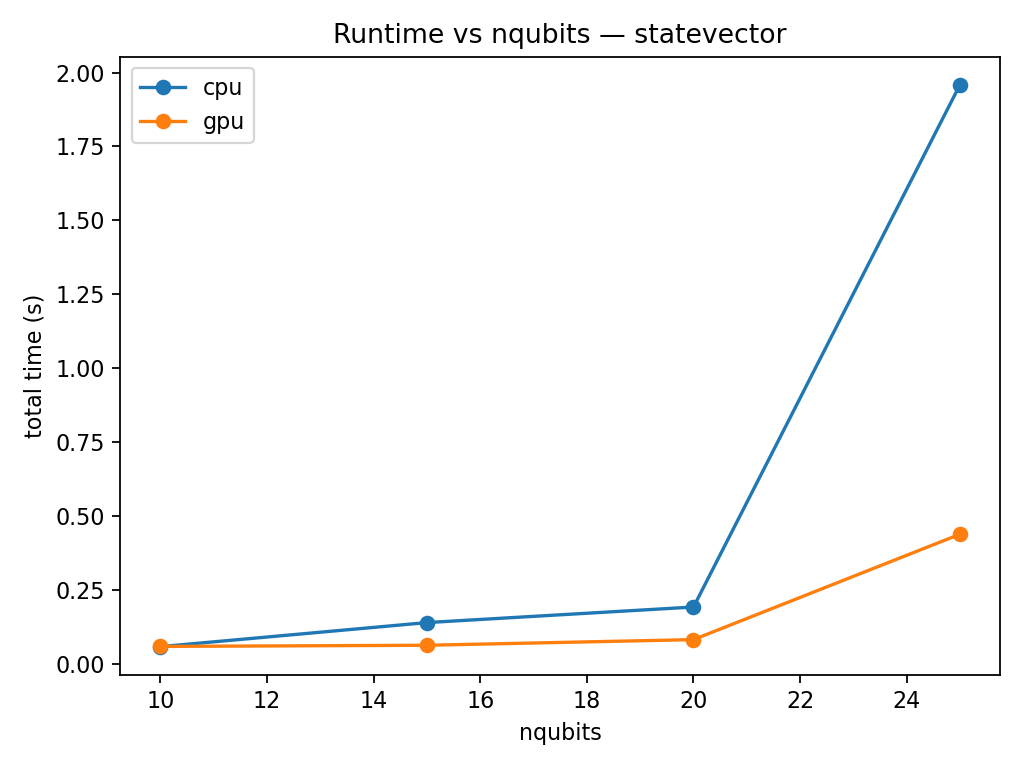
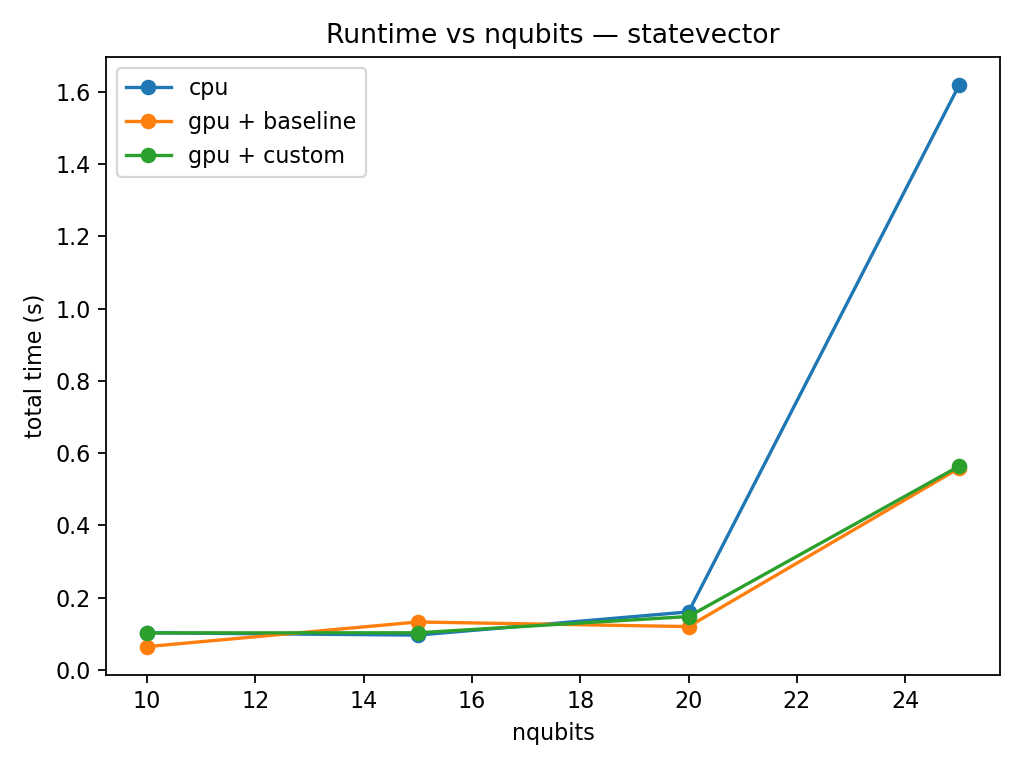
added to plotting code more

diff --git a/benches/plotting.py b/benches/plotting.py
@@ -123,6 +123,187 @@ def plot_correctness(df, outdir):
         plt.title('Sampling TVD vs nqubits (GPU vs CPU)')
         plt.tight_layout(); plt.savefig(outdir/'tvd.png', dpi=160); plt.close()
 
+
+def plot_memory_vs_n(df, outdir):
+    """
+    Plot memory usage vs nqubits for each task, with separate curves for:
+      - cpu          -> rss_mb
+      - gpu + X      -> gpu_mem_mb (split by transpiler: baseline/custom/etc.)
+    """
+    has_transpiler = 'transpiler' in df.columns
+    has_rss = 'rss_mb' in df.columns
+    has_gpu_mem = 'gpu_mem_mb' in df.columns
+
+    if not has_rss and not has_gpu_mem:
+        return  # nothing to plot
+
+    for task in sorted(df['task'].dropna().unique()):
+        sub = df[df['task'] == task]
+        if sub.empty:
+            continue
+
+        plt.figure()
+        plotted_any = False
+
+        # 1) CPU: use rss_mb
+        if has_rss:
+            cpu_sub = sub[(sub['backend'] == 'cpu') & sub['rss_mb'].notna()]
+            if not cpu_sub.empty:
+                cpu_med = (
+                    cpu_sub
+                    .groupby('nqubits', as_index=False)['rss_mb']
+                    .median()
+                    .sort_values('nqubits')
+                )
+                plt.plot(cpu_med['nqubits'], cpu_med['rss_mb'],
+                         marker='o', label='cpu (RSS)')
+                plotted_any = True
+
+        # 2) GPU: use gpu_mem_mb, split by transpiler => gpu + baseline/custom
+        if has_gpu_mem:
+            gpu_sub = sub[(sub['backend'] == 'gpu') & sub['gpu_mem_mb'].notna()]
+            if not gpu_sub.empty:
+                if has_transpiler:
+                    for transp in sorted(gpu_sub['transpiler'].dropna().unique()):
+                        grp = gpu_sub[gpu_sub['transpiler'] == transp]
+                        if grp.empty:
+                            continue
+                        gpu_med = (
+                            grp
+                            .groupby('nqubits', as_index=False)['gpu_mem_mb']
+                            .median()
+                            .sort_values('nqubits')
+                        )
+                        if gpu_med.empty:
+                            continue
+                        label = f"gpu + {transp} (VRAM)"
+                        plt.plot(gpu_med['nqubits'], gpu_med['gpu_mem_mb'],
+                                 marker='o', label=label)
+                        plotted_any = True
+                else:
+                    # fallback: single gpu line
+                    gpu_med = (
+                        gpu_sub
+                        .groupby('nqubits', as_index=False)['gpu_mem_mb']
+                        .median()
+                        .sort_values('nqubits')
+                    )
+                    if not gpu_med.empty:
+                        plt.plot(gpu_med['nqubits'], gpu_med['gpu_mem_mb'],
+                                 marker='o', label='gpu (VRAM)')
+                        plotted_any = True
+
+        if not plotted_any:
+            plt.close()
+            continue
+
+        plt.xlabel('nqubits')
+        plt.ylabel('Memory usage (MB)')
+        plt.title(f'Memory vs nqubits — {task}')
+        plt.legend()
+        plt.tight_layout()
+        plt.savefig(outdir / f'mem_vs_n_{task}.png', dpi=160)
+        plt.close()
+
+
+def plot_total_memory_vs_n(df, outdir):
+    """
+    Plot total memory usage (CPU + GPU) vs nqubits for each task.
+
+    total_mem_mb = rss_mb + gpu_mem_mb (treating missing values as 0)
+
+    Curves:
+      - cpu (total mem)
+      - gpu + baseline (total mem)
+      - gpu + custom (total mem)
+    """
+    has_rss = 'rss_mb' in df.columns
+    has_gpu_mem = 'gpu_mem_mb' in df.columns
+    has_transpiler = 'transpiler' in df.columns
+
+    if not (has_rss or has_gpu_mem):
+        return  # nothing to compute
+
+    for task in sorted(df['task'].dropna().unique()):
+        sub = df[df['task'] == task]
+        if sub.empty:
+            continue
+
+        sub = sub.copy()
+
+        # compute total_mem_mb safely
+        if has_rss and has_gpu_mem:
+            sub['total_mem_mb'] = sub['rss_mb'].fillna(0) + sub['gpu_mem_mb'].fillna(0)
+        elif has_rss:
+            sub['total_mem_mb'] = sub['rss_mb']
+        else:
+            sub['total_mem_mb'] = sub['gpu_mem_mb']
+
+        plt.figure()
+        plotted_any = False
+
+        # 1) CPU: aggregate all cpu rows (transpiler ignored)
+        cpu_sub = sub[(sub['backend'] == 'cpu') & sub['total_mem_mb'].notna()]
+        if not cpu_sub.empty:
+            cpu_med = (
+                cpu_sub
+                .groupby('nqubits', as_index=False)['total_mem_mb']
+                .median()
+                .sort_values('nqubits')
+            )
+            if not cpu_med.empty:
+                plt.plot(cpu_med['nqubits'], cpu_med['total_mem_mb'],
+                         marker='o', label='cpu (total mem)')
+                plotted_any = True
+
+        # 2) GPU: split by transpiler so you get gpu+baseline / gpu+custom
+        gpu_sub = sub[(sub['backend'] == 'gpu') & sub['total_mem_mb'].notna()]
+        if not gpu_sub.empty:
+            if has_transpiler:
+                for transp in sorted(gpu_sub['transpiler'].dropna().unique()):
+                    grp = gpu_sub[gpu_sub['transpiler'] == transp]
+                    if grp.empty:
+                        continue
+                    gpu_med = (
+                        grp
+                        .groupby('nqubits', as_index=False)['total_mem_mb']
+                        .median()
+                        .sort_values('nqubits')
+                    )
+                    if gpu_med.empty:
+                        continue
+                    label = f"gpu + {transp} (total mem)"
+                    plt.plot(gpu_med['nqubits'], gpu_med['total_mem_mb'],
+                             marker='o', label=label)
+                    plotted_any = True
+            else:
+                # fallback: single gpu line
+                gpu_med = (
+                    gpu_sub
+                    .groupby('nqubits', as_index=False)['total_mem_mb']
+                    .median()
+                    .sort_values('nqubits')
+                )
+                if not gpu_med.empty:
+                    plt.plot(gpu_med['nqubits'], gpu_med['total_mem_mb'],
+                             marker='o', label='gpu (total mem)')
+                    plotted_any = True
+
+        if not plotted_any:
+            plt.close()
+            continue
+
+        plt.xlabel('nqubits')
+        plt.ylabel('Total memory usage (MB)')
+        plt.title(f'Total memory vs nqubits — {task}')
+        plt.legend()
+        plt.tight_layout()
+        plt.savefig(outdir / f'total_mem_vs_n_{task}.png', dpi=160)
+        plt.close()
+
+
+
+
 def main():
     ap = argparse.ArgumentParser()
     ap.add_argument('--csv', default=str(PROJECT_ROOT / 'results' / 'result.csv'))
@@ -141,7 +322,8 @@ def main():
     plot_transpile_sim_breakdown(df, outdir)
     plot_speedup(df, outdir)
     plot_correctness(df, outdir)
-
+    plot_memory_vs_n(df, outdir)
+    plot_total_memory_vs_n(df, outdir)
 
 if __name__ == '__main__':
     main()

diff --git a/benches/run_benchmarks2.py b/benches/run_benchmarks2.py
@@ -119,21 +119,21 @@ def compare_both_backends(combo: Dict, qc: QuantumCircuit, fieldnames: List[str]
 
     # build CPU ref sim
     cpu_sim, cpu_device = create_simulator("cpu", combo["tasks"])
+    for i in range(combo["repeats"]):
+        # reference run (ONE run for all repeats) ####CHANGED TO REPEATS NOT ONE RUN######
+        # for i in range(args.repeats):
+        ref_trans_sec, ref_sim_sec, ref_extra, ref_stats, ref_res = run_once(
+            sim=cpu_sim, qc=qc,task=combo["tasks"], shots=combo["shots"], measure=True, transpiler=combo["transpiler"])
 
-    # reference run (ONE run for all repeats) ####CHANGED TO REPEATS NOT ONE RUN######
-    # for i in range(args.repeats):
-    ref_trans_sec, ref_sim_sec, ref_extra, ref_stats, ref_res = run_once(
-        sim=cpu_sim, qc=qc,task=combo["tasks"], shots=combo["shots"], measure=True, transpiler=combo["transpiler"])
+        # extract ref artifact
+        ref_sv = ref_extra.get("statevector") if combo["tasks"] == "statevector" else None
+        ref_counts = ref_extra.get("counts") if combo["tasks"] != "statevector" else None
 
-    # extract ref artifact
-    ref_sv = ref_extra.get("statevector") if combo["tasks"] == "statevector" else None
-    ref_counts = ref_extra.get("counts") if combo["tasks"] != "statevector" else None
-
-    if csv_path:
-        cpu_row = _row_base("cpu", cpu_device, 0, ref_trans_sec, ref_sim_sec, notes="reference")
-        _inject_stats(cpu_row, ref_stats, ref_res)
-        # correctness cols stay blank for ref
-        _append_csv(csv_path, _filtered(cpu_row), fieldnames)
+        if csv_path:
+            cpu_row = _row_base("cpu", cpu_device, 0, ref_trans_sec, ref_sim_sec, notes="reference")
+            _inject_stats(cpu_row, ref_stats, ref_res)
+            # correctness cols stay blank for ref
+            _append_csv(csv_path, _filtered(cpu_row), fieldnames)
 
     # gpu part now; keep running until repeats end
     gpu_sim, gpu_device = create_simulator("gpu", combo["tasks"])
@@ -187,41 +187,41 @@ def compare_both_backends(combo: Dict, qc: QuantumCircuit, fieldnames: List[str]
 def main2():
     # parameters to tweak
 
-    params = {
-        "backend": ["cpu", "gpu", "compare"],
-        "tasks": ["statevector", "sampling"],
-        "circuit": ["random", "ghz", "qft"],
-        "nqubits": [10, 15, 20, 25],
-        "depth": [4, 6, 8, 10],
-        "shots": [1024],
-        "repeats": [1],
-        "seed": [42],
-        "transpiler": ["baseline", "custom"]
-    }
+    # params = {
+    #     "backend": ["cpu", "gpu", "compare"],
+    #     "tasks": ["statevector", "sampling"],
+    #     "circuit": ["random", "ghz", "qft"],
+    #     "nqubits": [10, 15, 20, 25],
+    #     "depth": [4, 6, 8, 10],
+    #     "shots": [1024],
+    #     "repeats": [1],
+    #     "seed": [42],
+    #     "transpiler": ["baseline", "custom"]
+    # }
 
     params = {
         "backend": ["compare"],
         "tasks": ["statevector"],
         "circuit": ["random"],
         "nqubits": [10, 15, 20, 25],
-        "depth": [4, 6],
-        "shots": [1024],
-        "repeats": [1],
-        "seed": [42],
-        "transpiler": ["baseline", "custom"]
-    }
-
-    params = {
-        "backend": ["cpu"],
-        "tasks": ["statevector"],
-        "circuit": ["random"],
-        "nqubits": [15],
         "depth": [4],
         "shots": [1024],
-        "repeats": [1],
+        "repeats": [5],
         "seed": [42],
-        "transpiler": ["custom"]
+        "transpiler": ["custom", "baseline"]
     }
+
+    # params = {
+    #     "backend": ["compare"],
+    #     "tasks": ["statevector"],
+    #     "circuit": ["random"],
+    #     "nqubits": [15],
+    #     "depth": [4],
+    #     "shots": [1024],
+    #     "repeats": [1],
+    #     "seed": [42],
+    #     "transpiler": ["baseline", "custom"]
+    # }
 
 
     keys = params.keys()

diff --git a/qgpusim/transpiler/pm.py b/qgpusim/transpiler/pm.py
@@ -23,7 +23,7 @@ def make_custom_pm() -> PassManager:
     pm.append(QubitInteractionAnalysis())
 
     # 2) do lazy reordering based on that graph
-    pm.append(LazyQubitReordering())
+    # pm.append(LazyQubitReordering())
 
     # 3) extra local cleanups
     pm.append(CancelSelfInversePairs())
